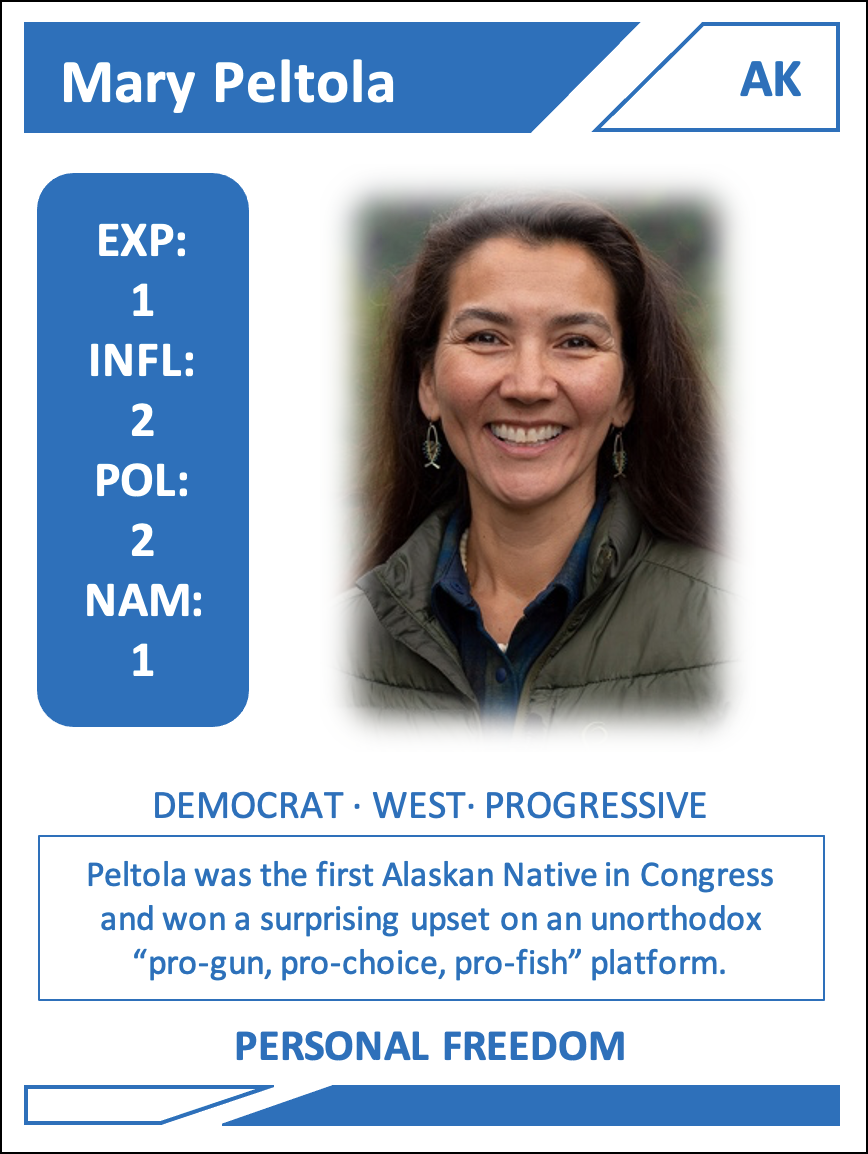
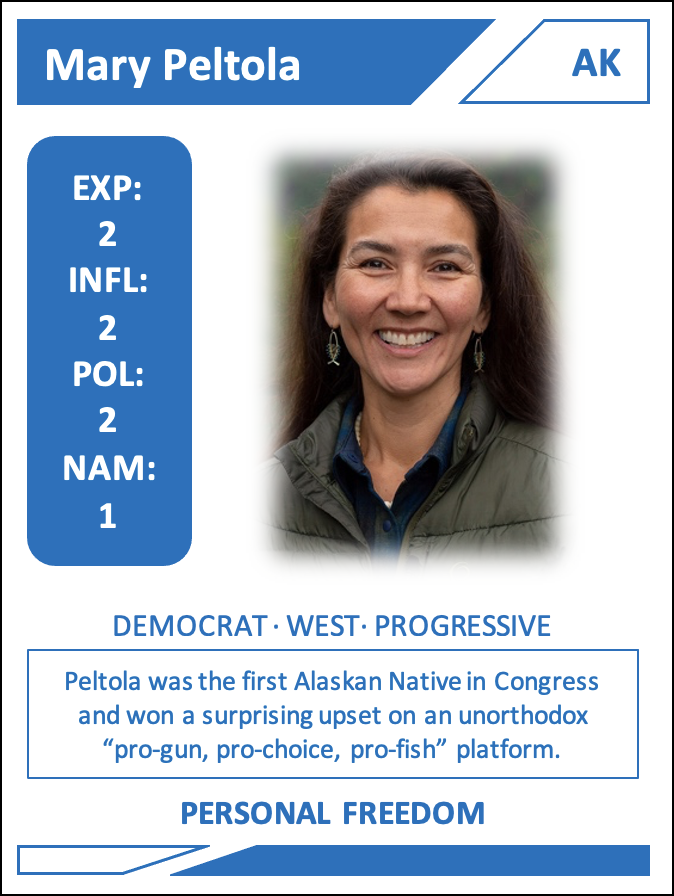
meggy mac 1/7

diff --git a/Election Game/src/main/java/org/cis120/electiongame/CardData.java b/Election Game/src/main/java/org/cis120/electiongame/CardData.java
@@ -1016,7 +1016,7 @@ public class CardData {
             "Josh Hawley", "South", 3, 4, 4, 3, "Populist", "Regulation"
     );
     static President maryPeltola = new President(
-            "Mary Peltola", "West", 1, 2, 2, 1, "Progressive", "Personal Freedom"
+            "Mary Peltola", "West", 2, 2, 2, 1, "Progressive", "Personal Freedom"
     );
     static President leeZeldin = new President(
             "Lee Zeldin", "Northeast", 3, 5, 6, 3, "Conservative", "Law and Order"
@@ -1491,6 +1491,33 @@ public class CardData {
             "Raphael Warnock", "South", 2, 6, 2, 3, "Progressive", "Egalitarianism"
     );
     
+    static President seanPatrickMaloney = new President(
+            "Sean Patrick Maloney", "Northeast", 3, 1, 1, 1, "Progressive", "Social Liberalism"
+    );
+    
+    static President johnFetterman = new President(
+            "John Fetterman", "Midwest", 2, 3, 1, 2, "Progressive", "Social Programs"
+    );
+    
+    static President joshShapiro = new President(
+            "Josh Shapiro", "Midwest", 2, 4, 3, 2, "Progressive", "Social Liberalism"
+    );
+    
+    static President mikeLawler = new President(
+            "Mike Lawler", "Northeast", 2, 3, 2, 1, "Conservative", "Tax Cuts"
+    );
+    
+    static President georgeSantos = new President(
+            "George Santos", "Northeast", 2, 1, 1, 3, "Conservative", "Anti-Establishment"
+    );
+    
+    static President susanCollins = new President(
+            "Susan Collins", "Northeast", 7, 2, 2, 2, "Conservative", "Social Liberalism"
+    );
+    
+    static President cherylJohnson = new President(
+            "Cheryl Johnson", "Northeast", 10, 10, 1, 1, "Progressive", "Law and Order"
+    );
   
 
     
@@ -2354,7 +2381,20 @@ public class CardData {
         nonpresidents.add(gavinNewsome);
         nonpresidents.add(leBronJames);
         nonpresidents.add(raphaelWarnock);
+        nonpresidents.add(seanPatrickMaloney); 
+        nonpresidents.add(johnFetterman);
+        nonpresidents.add(joshShapiro);
+        nonpresidents.add(mikeLawler);
+        nonpresidents.add(georgeSantos);
+        nonpresidents.add(susanCollins);
+
+
         
+
+      
+
+        
+
         
         
         meme.add(millFill);
@@ -2391,6 +2431,10 @@ public class CardData {
         meme.add(charliecristdemrep);
         meme.add(charliecristfed);
         **/
+        meme.add(cherylJohnson);
+
+
+        
         
         
         
